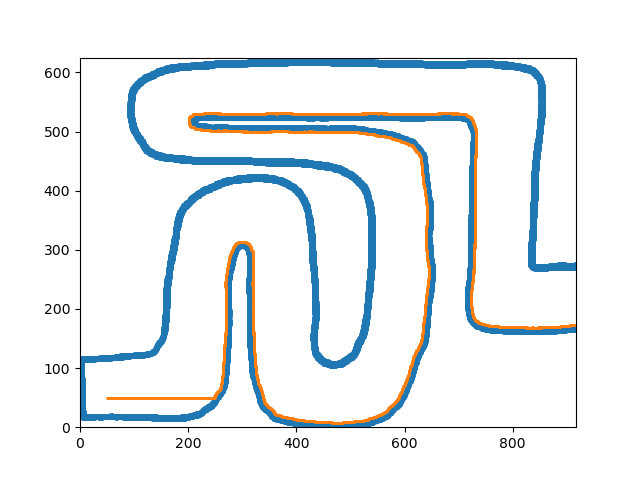
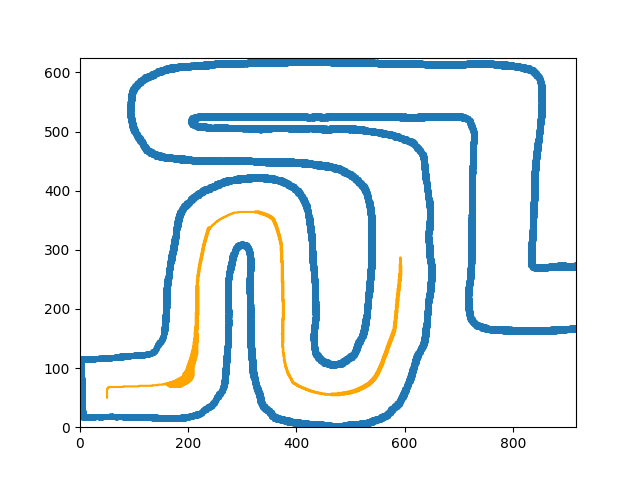
Implemented Nearest Neighbor Navigator
Removed various print statements from other parts of the code and implemented an initial working version of the KNN based navigation algorithm.

diff --git a/navigator.py b/navigator.py
@@ -2,7 +2,6 @@ import numpy as np
 import random
 from environment import *
 from sklearn.neighbors import NearestNeighbors
-import seaborn as sns
 import matplotlib.pyplot as plt
 
 
@@ -130,16 +129,38 @@ class AStarNav(Navigator):
     # Find path of greatest absolute distance from nearest obstacle
     def find_path(self):
         
-        path = []
-        prev = self.car.path
-        dirs = [[1,0],[0,-1],[-1,0],[0,1]]
+        step=25
 
-    # Plot obstacle proximity heatmap
-    def proximity_heatmap(self):
-        self.knn.kneighbors_graph()
-        x, y = self.env.img.shape
-        X = self.get_obstacles()
-        hm_data = self.knn.kneighbors_graph(X).toarray()
-        print(hm_data)
-        ax = sns.heatmap(hm_data)
-        plt.show()
+        X = []
+        prev = self.car.path
+        pos = self.car.pos
+        dims = self.env.img.shape
+        dirs = [
+            [1,0],[0,-1],[-1,0],[0,1]]
+        dirs = list(np.multiply(dirs,step))
+
+        # Exit condition: edge of map or max path length
+        while not np.any([
+            pos[0] <= 0,
+            pos[0] >= dims[0],
+            pos[1] <= 0,
+            pos[1] >= dims[1],
+            len(X) > 5000 ]
+        ):
+
+            # Add position to path
+            X.append(pos.copy())
+
+            # List of adjacent positions
+            positions = [list(np.add(pos, dir)) for dir in dirs]
+
+            # List of distances between each position and nearest obstacle
+            distances = list(np.squeeze(self.knn.kneighbors(positions))[0])
+
+            # List of boolean indicators for whether position has been visited
+            unvisited = [0 if (p in X) or (p in prev) else 1 for p in positions]
+
+            i = np.argmax(np.multiply(distances, unvisited))
+            pos = positions[i]
+
+        return X

diff --git a/environment.py b/environment.py
@@ -15,7 +15,6 @@ class Environment:
         )
         # Binarize the image
         self.img = (self.img > threshold) * 255
-        print(self.img.shape)
 
 
     # Return image as array or binary pixels
@@ -41,9 +40,6 @@ class Environment:
             y1 = max(0, ylim[0])
             y2 = min(img.shape[1], ylim[1])
             yrange = range(y1, y2)
-
-        print(xrange)
-        print(yrange)
 
         # Convert img data to list of scatterplot coordinates
         X = []
@@ -72,7 +68,8 @@ class Environment:
         plt.xlim(xlim)
         plt.ylim(ylim)
         plt.scatter(X[0], X[1], zorder=1, s=1)
-        plt.scatter(path[0], path[1], zorder=2,s=1)
+        # plt.scatter(path[0], path[1], zorder=2,s=1)
+        plt.plot(path[0], path[1], zorder=2, color='orange')
         plt.savefig("fullview.png")
 
 

diff --git a/nav_demo.py b/nav_demo.py
@@ -19,15 +19,14 @@ if __name__ == '__main__':
     # Uncomment one nav algorithm line below:
     # nav = StraightLineNav(env, car)
     nav = AStarNav(env, car)
-    nav.proximity_heatmap()
 
     # # Run nav algorithm
-    # print("Running nav algorithm...")
-    # path = nav.find_path()
+    print("Running nav algorithm...")
+    path = nav.find_path()
 
-    # # # Plot map and carview
-    # print("Plotting map and carview...")
-    # env.plot_map(path)
+    # Plot map and carview
+    print("Plotting map and carview...")
+    env.plot_map(path)
     # env.plot_carview(pos, (0,350), (0,350), 100)
 
     # # Instantiate animator
